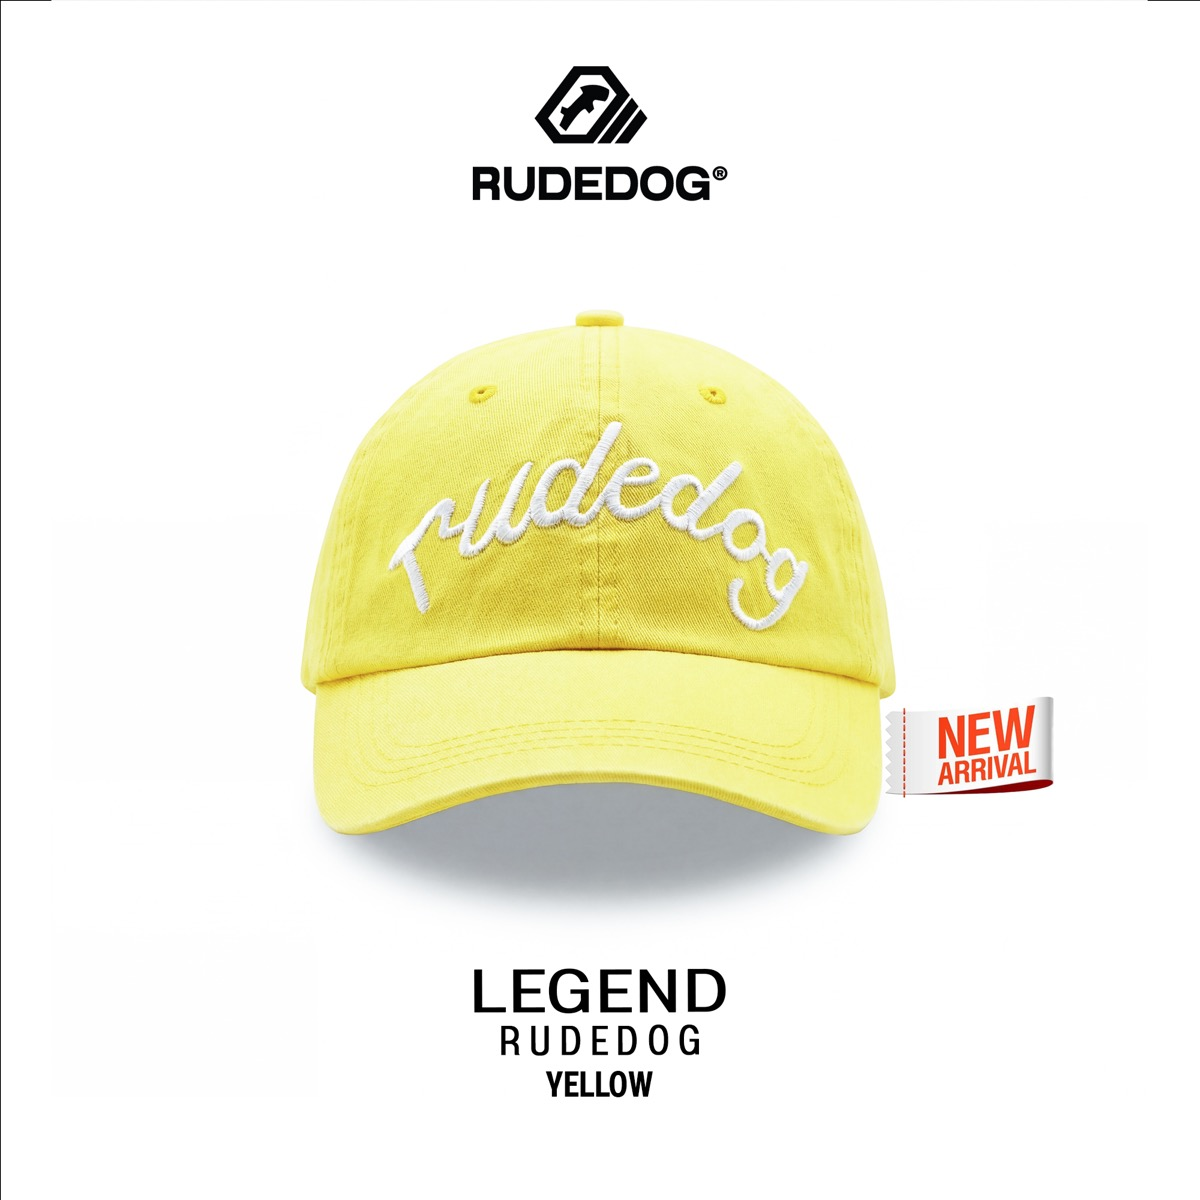
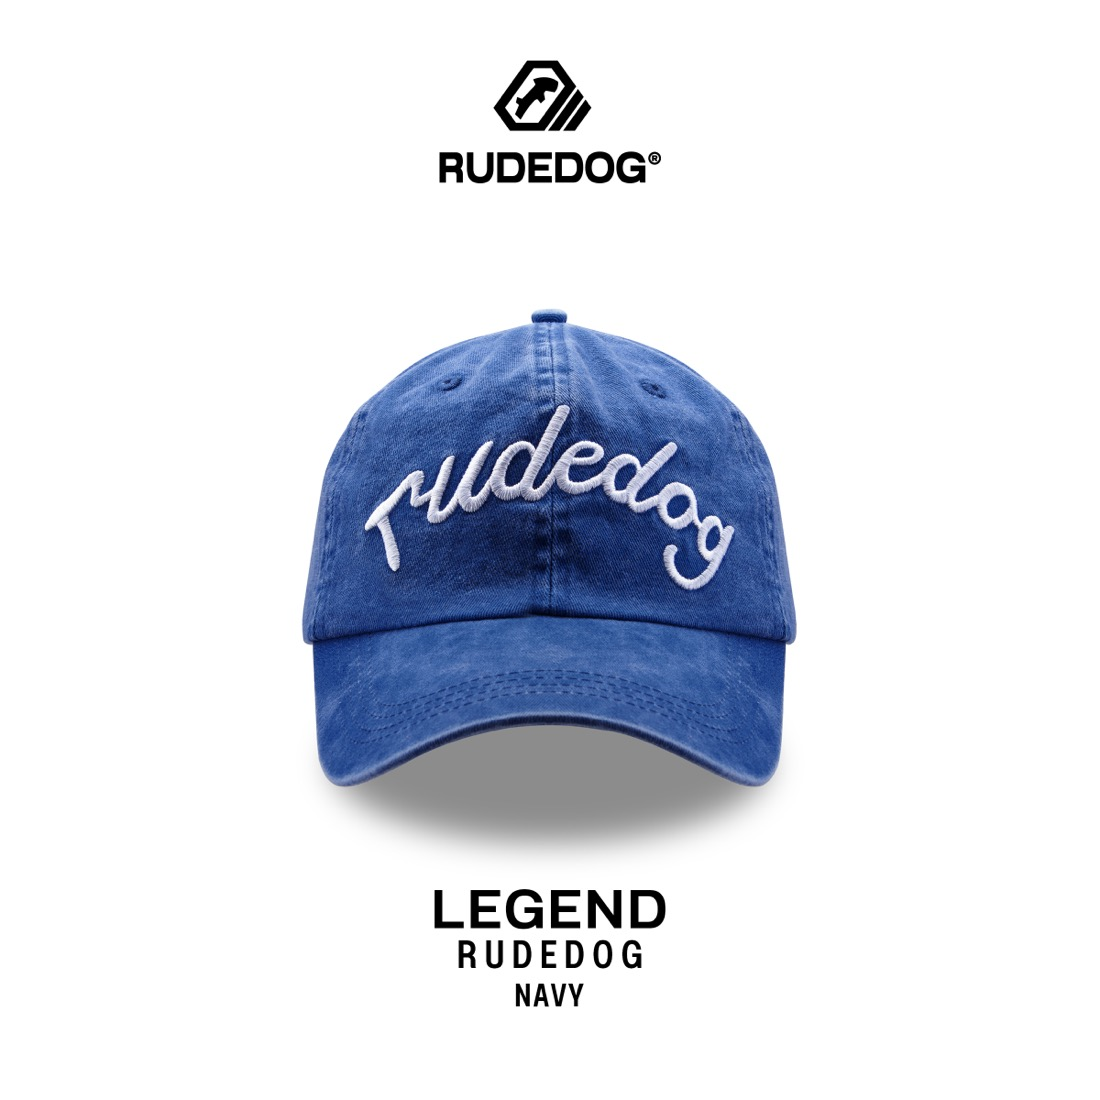
Refine marquee colors and dealer drop

Changed region(s): [[0.2473, 0.2473, 0.8964, 0.7727], [0.4018, 0.8036, 0.6182, 0.9273], [0.3709, 0.0618, 0.6182, 0.1855]]

diff --git a/index.html b/index.html
@@ -56,25 +56,19 @@
           <span>RUDEDOG® OFFICIAL</span><span>CLASSY CRAZY</span><span>นอกกรอบอย่างมีคลาส</span><span>SHOP THE PACK</span>
         </div>
       </div>
-      <div class="marquee-band marquee-band-two">
-        <div class="marquee-track">
-          <span>ALPHA / LEGEND / STORM / MOTION</span><span>MONACO / FITFAKE / RUDE SHADE</span><span>DEALER READY</span>
-          <span>ALPHA / LEGEND / STORM / MOTION</span><span>MONACO / FITFAKE / RUDE SHADE</span><span>DEALER READY</span>
-        </div>
-      </div>
     </section>
 
     <section class="hero">
       <div class="hero-copy reveal">
         <div class="hero-meta" aria-label="brand meta">
           <span>EST. 1981 - BANGKOK</span>
-          <span>BRAND DIRECTION 2026</span>
+          <span>RUDEDOG OFFICIAL</span>
         </div>
         <p class="eyebrow">CLASSY CRAZY - นอกกรอบอย่างมีคลาส</p>
         <h1>CLASSY<br>CRAZY.</h1>
         <p class="lead">ของดูดี ใส่จริง ราคาจริง พูดตรง ไม่หลอก สำหรับคนที่ฉลาดเกินจะตามใคร</p>
         <div class="hero-actions">
-          <a class="button primary" href="https://shopee.co.th/search?keyword=RUDEDOG%20ALPHA%20CAP&utm_source=rudedog_site&utm_medium=organic&utm_campaign=alpha_hero" target="_blank" rel="noopener">ดู ALPHA บน Shopee</a>
+          <a class="button primary" href="https://s.shopee.co.th/4qCWMobiTN" target="_blank" rel="noopener">ดู ALPHA บน Shopee</a>
           <a class="button ghost" href="#manifesto">Welcome to the pack</a>
         </div>
         <dl class="stat-row">
@@ -91,8 +85,8 @@
         </div>
         <div class="alpha-swatches" aria-label="สีหมวก ALPHA CAP ที่คัดสำหรับเว็บ">
           <img src="assets/images/alpha-cap-oatmilk.jpg" alt="หมวก RUDEDOG ALPHA CAP สี Oatmilk">
-          <img src="assets/images/alpha-cap-red.jpg" alt="หมวก RUDEDOG ALPHA CAP สี Red">
-          <img src="assets/images/alpha-cap-cover.jpg" alt="ภาพ cover RUDEDOG ALPHA CAP">
+          <img src="assets/images/alpha-cap-white.jpg" alt="หมวก RUDEDOG ALPHA CAP สี White">
+          <img src="assets/images/alpha-cap-grey.jpg" alt="หมวก RUDEDOG ALPHA CAP สี Grey">
         </div>
       </div>
     </section>
@@ -152,7 +146,7 @@
           <span>60,000+ ใบในฝูง</span>
           <span>Signature Line</span>
         </div>
-        <a class="button primary" href="https://shopee.co.th/search?keyword=RUDEDOG%20ALPHA%20CAP&utm_source=rudedog_site&utm_medium=organic&utm_campaign=alpha_section" target="_blank" rel="noopener">Shop ALPHA CAP</a>
+        <a class="button primary" href="https://s.shopee.co.th/4qCWMobiTN" target="_blank" rel="noopener">Shop ALPHA CAP</a>
       </div>
       <div class="feature-image reveal">
         <img src="assets/images/alpha-cap-cover.jpg" alt="ภาพสินค้า RUDEDOG ALPHA CAP พร้อมสีสินค้า">
@@ -167,26 +161,26 @@
       <div class="product-grid">
         <article class="product-card reveal">
           <div class="product-media">
-            <img src="assets/images/alpha-cap-cover.jpg" alt="ภาพโมเดลและสินค้า RUDEDOG ALPHA CAP">
-            <img src="assets/images/alpha-cap-camo.jpg" alt="หมวก RUDEDOG ALPHA CAP สี Camo">
+            <img src="assets/images/alpha-cap-hero.jpg" alt="ภาพโมเดลและสินค้า RUDEDOG ALPHA CAP">
+            <img src="assets/images/alpha-cap-navy.jpg" alt="หมวก RUDEDOG ALPHA CAP สี Navy">
           </div>
           <div>
             <p class="tag">SIGNATURE LINE</p>
             <h3>ALPHA CAP</h3>
             <p>หมวกนอกกรอบของวงการ ราคาอธิบายได้ สเปกเล่าได้ ไม่ต้องขายด้วยคำใหญ่</p>
-            <a href="https://shopee.co.th/search?keyword=RUDEDOG%20ALPHA%20CAP&utm_source=rudedog_site&utm_medium=organic&utm_campaign=alpha_card" target="_blank" rel="noopener">ไป Shopee</a>
+            <a href="https://s.shopee.co.th/4qCWMobiTN" target="_blank" rel="noopener">ไป Shopee</a>
           </div>
         </article>
         <article class="product-card reveal">
           <div class="product-media">
             <img src="assets/images/legend-model.jpg" alt="โมเดลใส่หมวก RUDEDOG LEGEND">
-            <img src="assets/images/legend-packshot.jpg" alt="หมวก RUDEDOG LEGEND สี Yellow">
+            <img src="assets/images/legend-packshot.jpg" alt="หมวก RUDEDOG LEGEND สีน้ำเงิน Navy">
           </div>
           <div>
             <p class="tag">SIGNATURE LINE</p>
             <h3>LEGEND HAT</h3>
             <p>หมวกทรง easy street สำหรับคนที่อยากให้ลุคมีเรื่อง แต่ยังดูสะอาดและใส่ง่าย</p>
-            <a href="https://shopee.co.th/search?keyword=RUDEDOG%20LEGEND%20HAT&utm_source=rudedog_site&utm_medium=organic&utm_campaign=legend_card" target="_blank" rel="noopener">ไป Shopee</a>
+            <a href="https://s.shopee.co.th/4AwpZg40Xd" target="_blank" rel="noopener">ไป Shopee</a>
           </div>
         </article>
         <article class="product-card reveal">
@@ -198,7 +192,7 @@
             <p class="tag">BAG COLLECTION</p>
             <h3>STORM ROUTE</h3>
             <p>กระเป๋าสายเดินทางประจำวัน วางไว้ให้เป็นฝั่ง rugged ของเว็บโดยไม่ทำให้หน้าเว็บหนัก</p>
-            <a href="https://shopee.co.th/search?keyword=RUDEDOG%20STORM%20BAG&utm_source=rudedog_site&utm_medium=organic&utm_campaign=storm_card" target="_blank" rel="noopener">ไป Shopee</a>
+            <a href="https://s.shopee.co.th/1gFUb7gHHV" target="_blank" rel="noopener">ไป Shopee</a>
           </div>
         </article>
         <article class="product-card reveal">
@@ -210,7 +204,7 @@
             <p class="tag">ARMOR LINE</p>
             <h3>MOTION BAG</h3>
             <p>daily carry สำหรับคนที่อยากได้ของใช้งานจริง ไม่อยากจ่ายค่า logo เกินเหตุ</p>
-            <a href="https://shopee.co.th/search?keyword=RUDEDOG%20MOTION%20BAG&utm_source=rudedog_site&utm_medium=organic&utm_campaign=bag_card" target="_blank" rel="noopener">ไป Shopee</a>
+            <a href="https://s.shopee.co.th/8ASyL8SI78" target="_blank" rel="noopener">ไป Shopee</a>
           </div>
         </article>
         <article class="product-card reveal">
@@ -258,7 +252,7 @@
             <p class="tag">RUDE SHADE</p>
             <h3>BLACK SUNGLASSES</h3>
             <p>แว่นดำที่ไม่ได้ทำตัวเป็นของแพงปลอม แค่ทำให้หน้าเข้มขึ้นทันทีแบบไม่ต้องพูดเยอะ</p>
-            <a href="https://shopee.co.th/search?keyword=RUDEDOG%20RUDE%20SHADE&utm_source=rudedog_site&utm_medium=organic&utm_campaign=sunglasses_card" target="_blank" rel="noopener">ไป Shopee</a>
+            <a href="https://s.shopee.co.th/50VwZHSZdv" target="_blank" rel="noopener">ไป Shopee</a>
           </div>
         </article>
       </div>
@@ -266,8 +260,8 @@
 
     <section class="section pillars-section">
       <div class="section-heading reveal">
-        <p class="eyebrow">04 - Brand Pillars</p>
-        <h2>FOUR FOUNDATIONS. EVERY ACTION RUNS THROUGH ONE.</h2>
+        <p class="eyebrow">04 - The RUDEDOG Code</p>
+        <h2>ของที่ทำให้ RUDEDOG เป็น RUDEDOG</h2>
       </div>
       <div class="pillar-grid">
         <article class="pillar reveal"><span>I</span><h3>HONEST OVERBUILD</h3><p>สเปกเกินราคา และเล่าให้ลูกค้ารู้</p></article>
@@ -312,8 +306,8 @@
       </div>
       <div class="marquee-band marquee-band-two">
         <div class="marquee-track">
-          <span>ALPHA CAP</span><span>LEGEND HAT</span><span>STORM ROUTE</span><span>MOTION BAG</span><span>MONACO</span><span>FITFAKE</span><span>RUDE SHADE</span>
-          <span>ALPHA CAP</span><span>LEGEND HAT</span><span>STORM ROUTE</span><span>MOTION BAG</span><span>MONACO</span><span>FITFAKE</span><span>RUDE SHADE</span>
+          <span>ENERGY</span><span>BSIDE</span><span>REWIND</span><span>ZEBRA</span><span>DEALER DROP</span><span>RUDEDOG TS</span>
+          <span>ENERGY</span><span>BSIDE</span><span>REWIND</span><span>ZEBRA</span><span>DEALER DROP</span><span>RUDEDOG TS</span>
         </div>
       </div>
     </section>
@@ -325,18 +319,38 @@
       </div>
       <div class="dealer-layout">
         <div class="dealer-copy reveal">
-          <p>สินค้าประจำเดือนนี้พร้อมให้ตัวแทนหยิบไปเล่าได้ง่าย: มีภาพโมเดล มีภาพสินค้า มีคาแรกเตอร์ และทุกชิ้นพาลูกค้ากลับไปซื้อบน Shopee ได้ทันที</p>
+          <p>สินค้าประจำเดือนนี้พร้อมให้ตัวแทนหยิบไปเล่าได้ง่าย มีภาพโมเดล มีภาพสินค้า และคาแรกเตอร์ของแต่ละรุ่นชัดเจนในโทน RUDEDOG</p>
           <a class="button primary" href="https://shopee.co.th/search?keyword=RUDEDOG&utm_source=rudedog_site&utm_medium=organic&utm_campaign=dealer_section" target="_blank" rel="noopener">ดูสินค้าประจำเดือน</a>
         </div>
         <div class="dealer-grid">
-          <span>ALPHA CAP</span>
-          <span>LEGEND HAT</span>
-          <span>STORM ROUTE</span>
-          <span>MOTION BAG</span>
-          <span>MONACO</span>
-          <span>OVERSIZED CROP</span>
-          <span>FITFAKE BIG TANK</span>
-          <span>RUDE SHADE</span>
+          <article class="dealer-card reveal">
+            <div class="dealer-media">
+              <img src="assets/images/dealer-energy-detail.jpg" alt="รายละเอียดสินค้าเสื้อ RUDEDOG Energy">
+              <img src="assets/images/dealer-energy-packshot.jpg" alt="รูปสินค้าเสื้อ RUDEDOG Energy">
+            </div>
+            <h3>Energy</h3>
+          </article>
+          <article class="dealer-card reveal">
+            <div class="dealer-media">
+              <img src="assets/images/dealer-bside-model.jpg" alt="โมเดลใส่เสื้อ RUDEDOG Bside">
+              <img src="assets/images/dealer-bside-packshot.jpg" alt="รูปสินค้าเสื้อ RUDEDOG Bside">
+            </div>
+            <h3>Bside</h3>
+          </article>
+          <article class="dealer-card reveal">
+            <div class="dealer-media">
+              <img src="assets/images/dealer-rewind-model.jpg" alt="โมเดลใส่เสื้อ RUDEDOG Rewind">
+              <img src="assets/images/dealer-rewind-packshot.jpg" alt="รูปสินค้าเสื้อ RUDEDOG Rewind">
+            </div>
+            <h3>Rewind</h3>
+          </article>
+          <article class="dealer-card reveal">
+            <div class="dealer-media">
+              <img src="assets/images/dealer-zebra-detail.jpg" alt="รายละเอียดสินค้าเสื้อ RUDEDOG Zebra">
+              <img src="assets/images/dealer-zebra-packshot.jpg" alt="รูปสินค้าเสื้อ RUDEDOG Zebra">
+            </div>
+            <h3>Zebra</h3>
+          </article>
         </div>
       </div>
     </section>

diff --git a/assets/css/styles.css b/assets/css/styles.css
@@ -5,7 +5,6 @@
   --soft: #ebe8dd;
   --line: #d9d3c5;
   --blue: #1a2bff;
-  --copper: #b8754d;
   --white: #fffefa;
 }
 
@@ -349,7 +348,7 @@ h3 {
 }
 
 .motion-top {
-  height: clamp(84px, 9vw, 132px);
+  height: clamp(70px, 7vw, 104px);
   border-bottom: 0;
 }
 
@@ -382,7 +381,7 @@ h3 {
   top: 44%;
   transform: rotate(3.5deg);
   opacity: .92;
-  background: var(--copper);
+  background: var(--blue);
 }
 
 .marquee-band-three {
@@ -421,21 +420,12 @@ h3 {
 }
 
 .motion-top .marquee-band-one {
-  top: 6%;
-  transform: rotate(-1.4deg);
-}
-
-.motion-top .marquee-band-two {
-  top: 47%;
-  transform: rotate(1.2deg);
+  top: 24%;
+  transform: rotate(-1.35deg);
 }
 
 .motion-top .marquee-track {
   animation-duration: 21s;
-}
-
-.motion-top .marquee-band-two .marquee-track {
-  animation-duration: 26s;
 }
 
 .motion-bottom .marquee-band-one {
@@ -619,7 +609,7 @@ blockquote {
 
 .dealer-layout {
   display: grid;
-  grid-template-columns: minmax(0, .72fr) minmax(320px, 1fr);
+  grid-template-columns: minmax(0, .54fr) minmax(320px, 1fr);
   gap: clamp(22px, 5vw, 62px);
   align-items: start;
 }
@@ -634,21 +624,40 @@ blockquote {
 .dealer-grid {
   display: grid;
   grid-template-columns: repeat(2, minmax(0, 1fr));
-  gap: 10px;
+  gap: 14px;
 }
 
-.dealer-grid span {
-  min-height: 68px;
-  display: grid;
-  place-items: center;
-  padding: 12px;
-  color: var(--blue);
+.dealer-card {
   background: var(--paper);
   border: 1px solid var(--line);
-  font-size: clamp(17px, 2vw, 28px);
+}
+
+.dealer-media {
+  display: grid;
+  grid-template-columns: 1fr .86fr;
+  gap: 1px;
+  background: var(--line);
+}
+
+.dealer-media img {
+  width: 100%;
+  aspect-ratio: 1 / 1.04;
+  object-fit: cover;
+  background: white;
+}
+
+.dealer-media img:nth-child(2) {
+  object-fit: contain;
+  padding: 12px;
+}
+
+.dealer-card h3 {
+  margin: 0;
+  padding: 14px;
+  color: var(--blue);
+  font-size: clamp(18px, 2vw, 28px);
   font-weight: 1000;
   line-height: 1;
-  text-align: center;
   text-transform: uppercase;
 }
 
@@ -785,7 +794,7 @@ footer {
   }
 
   .motion-top {
-    height: 112px;
+    height: 86px;
   }
 
   .motion-bottom {
@@ -825,5 +834,13 @@ footer {
 
   .dealer-grid {
     grid-template-columns: 1fr;
+  }
+
+  .dealer-media {
+    grid-template-columns: 1fr;
+  }
+
+  .dealer-media img {
+    aspect-ratio: 1 / 1;
   }
 }